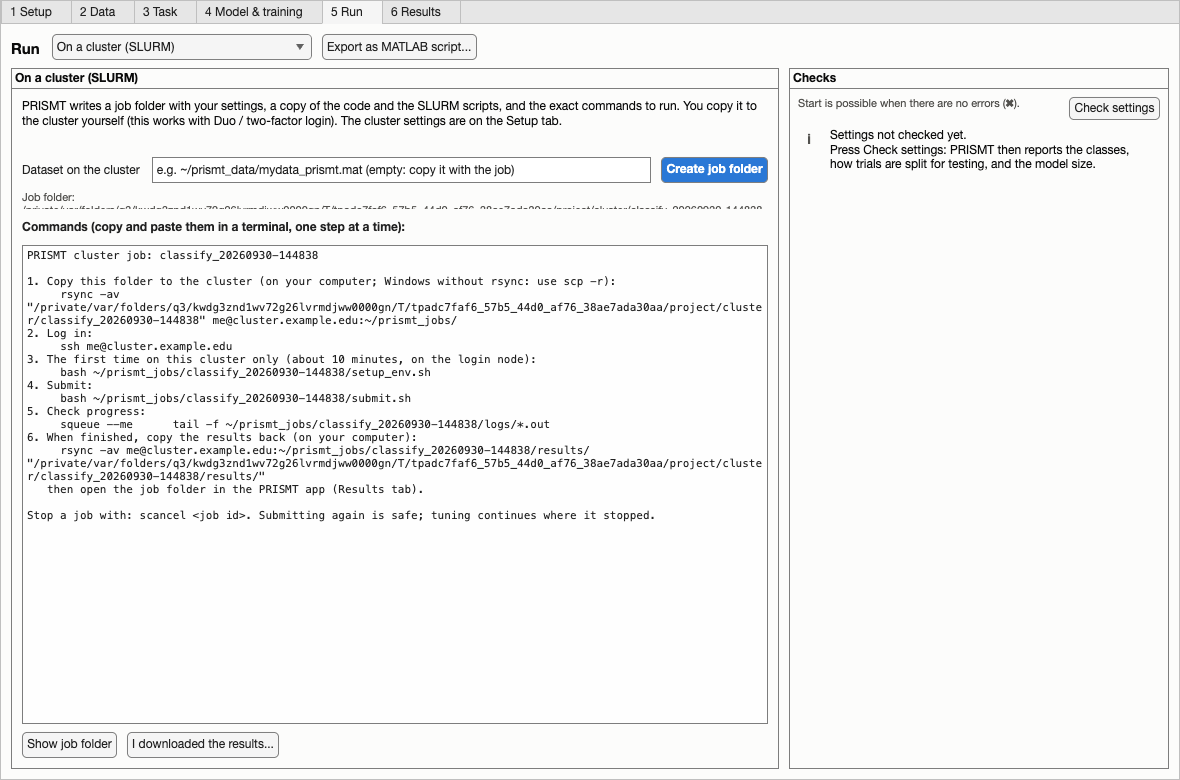
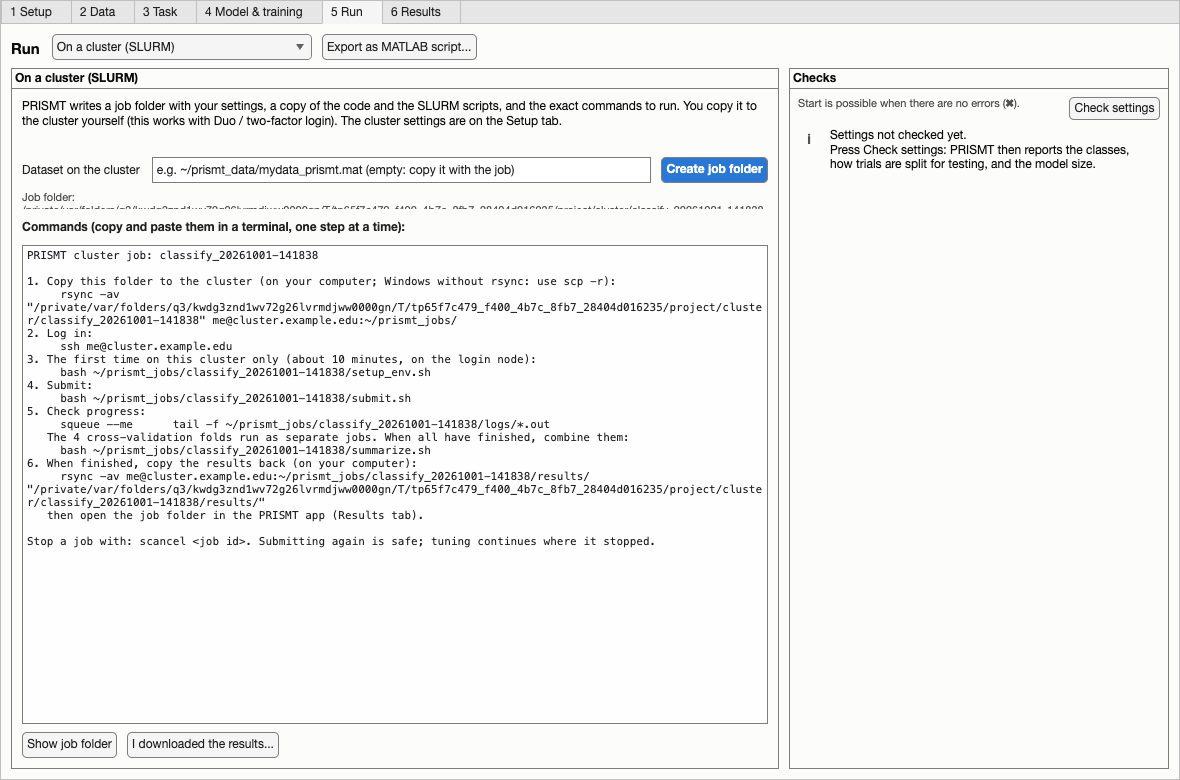
Docs: example result figures from the tutorial run; refreshed app screenshots

Changed region(s): [[0.0305, 0.5231, 0.6407, 0.7077], [0.3661, 0.3692, 0.5492, 0.4], [0.5797, 0.2462, 0.6102, 0.2769]]

diff --git a/docs/tutorial.md b/docs/tutorial.md
@@ -205,6 +205,37 @@ writes a script that reruns the analysis and draws the plots.
 
 Before interpreting a result, read [results-and-pitfalls.md](results-and-pitfalls.md).
 
+## Example results on the demo data
+
+These figures come from `matlab/examples/prismt_tutorial.m` on the demo data (8 mice, 5-fold
+cross-validation, Quick preset); they are what a working setup should give.
+
+**The data.** The planted stimulus response (CS+ minus CS−, channels 9–10), the planted
+learning effect (late minus early ACh, channels 3–4), condition traces, and trial counts per
+mouse and phase.
+
+![Demo data overview](figures/tutorial/01_data_overview.png)
+
+**Classifying early vs late learning.** One learning curve per fold, the confusion matrix,
+the score against the reference models (0.91 balanced accuracy on new mice; logistic
+regression 0.95; chance 0.50), and accuracy per mouse.
+
+![Classification results](figures/tutorial/02_classification.png)
+
+**Learning structure (masked autoencoder).** One test trial (recorded, what the model saw,
+its reconstruction, the error); R² of hidden values for each hiding pattern against the best
+simple baseline (the model predicts hidden values, and ACh from calcium, where the baselines
+cannot; forecasting is negative because this model was trained with random hiding);
+predictability per channel; and ACh predictability by learning phase.
+
+![Masked autoencoder results](figures/tutorial/03_masked_autoencoder.png)
+
+**Classifying after the autoencoder.** The fine-tuned score, and the test trials of one fold in
+that fold's model summary space (each fold has its own model, so folds are shown one at a
+time), coloured by learning phase.
+
+![Fine-tuned classification](figures/tutorial/04_finetune.png)
+
 ## The same without the app
 
 `matlab/examples/prismt_tutorial.m` does all of the above from a script: demo data,

diff --git a/README.md b/README.md
@@ -72,6 +72,16 @@ effects planted on purpose, so you can see what a real finding looks like.
 Then go back to the **Task** tab, choose **Learn structure (masked autoencoder)**, run it,
 and open *Predictability per channel* in the Results tab.
 
+This is what the demo gives with the standard settings: the two planted effects in the data
+(top), and a classifier of early vs late learning that is right on 91% of the trials of mice
+it never saw, with every mouse well above chance (bottom).
+
+![Demo data: the planted stimulus and learning effects](docs/figures/tutorial/01_data_overview.png)
+
+![Demo classification: learning curves, confusion matrix, score vs reference models, accuracy per mouse](docs/figures/tutorial/02_classification.png)
+
+More example figures, for every task, are in the [tutorial](docs/tutorial.md#example-results-on-the-demo-data).
+
 ## Using your own data, step by step
 
 ### Step 1. Bring your data in (Data tab)
